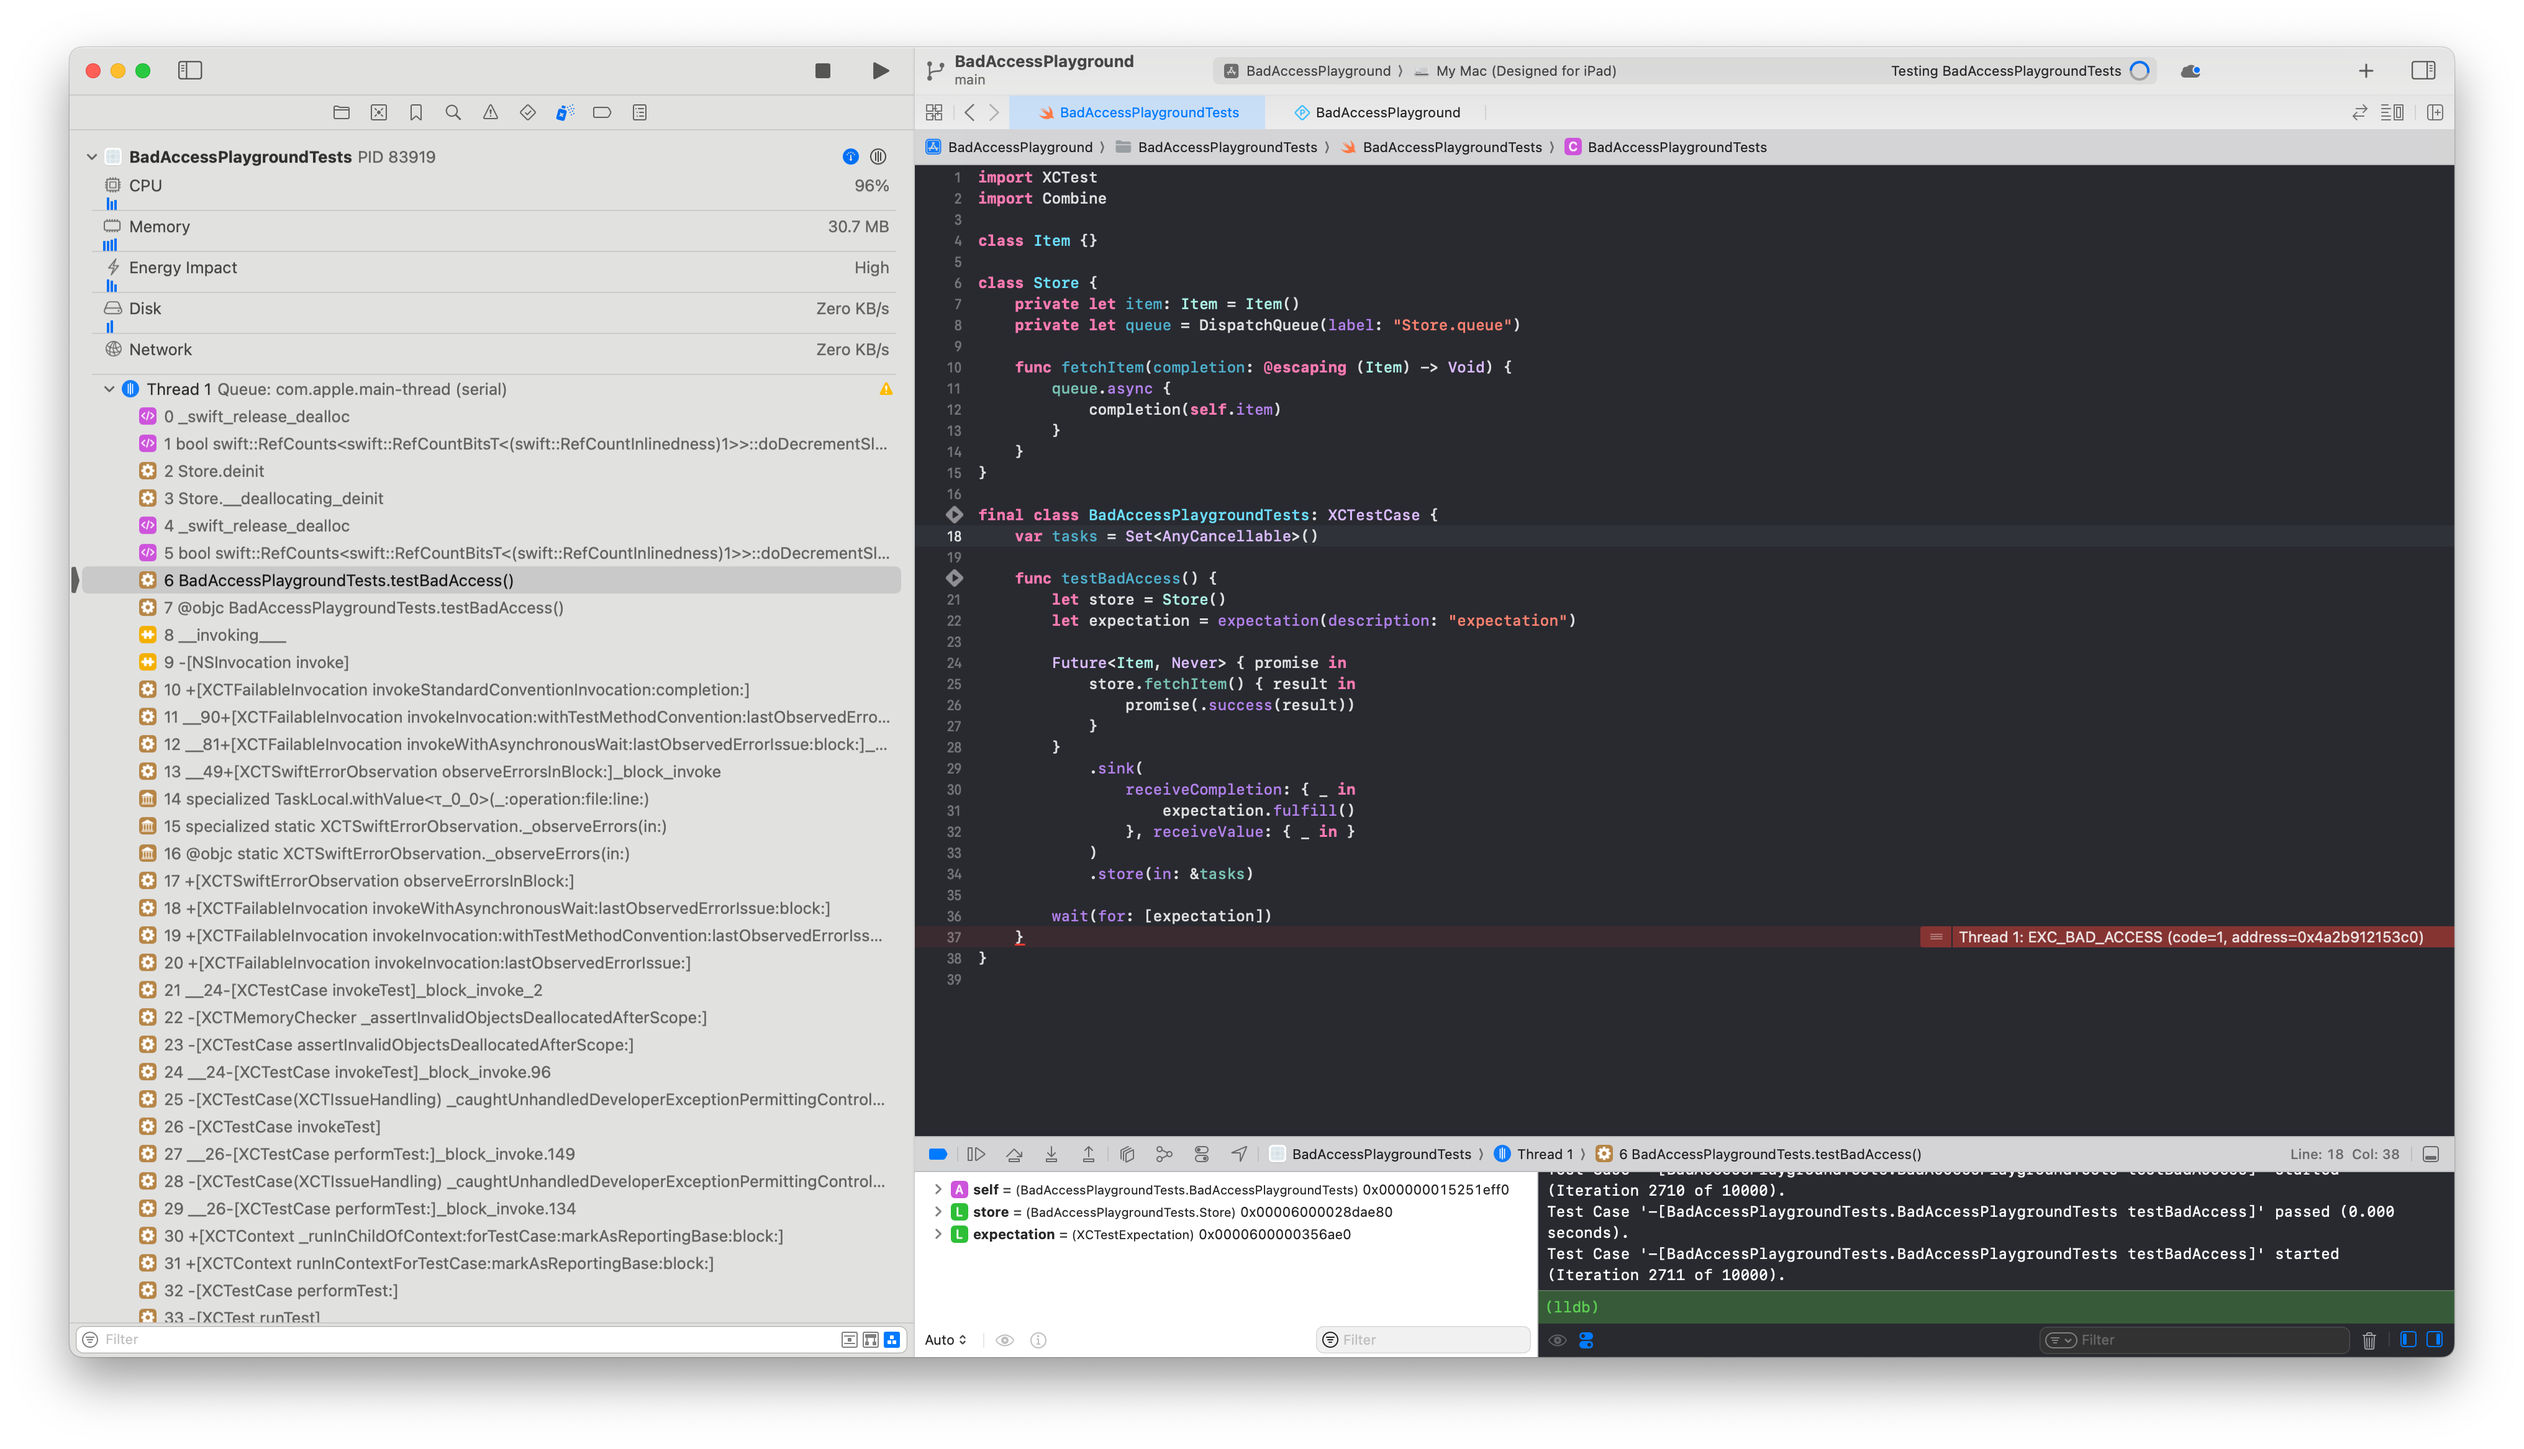
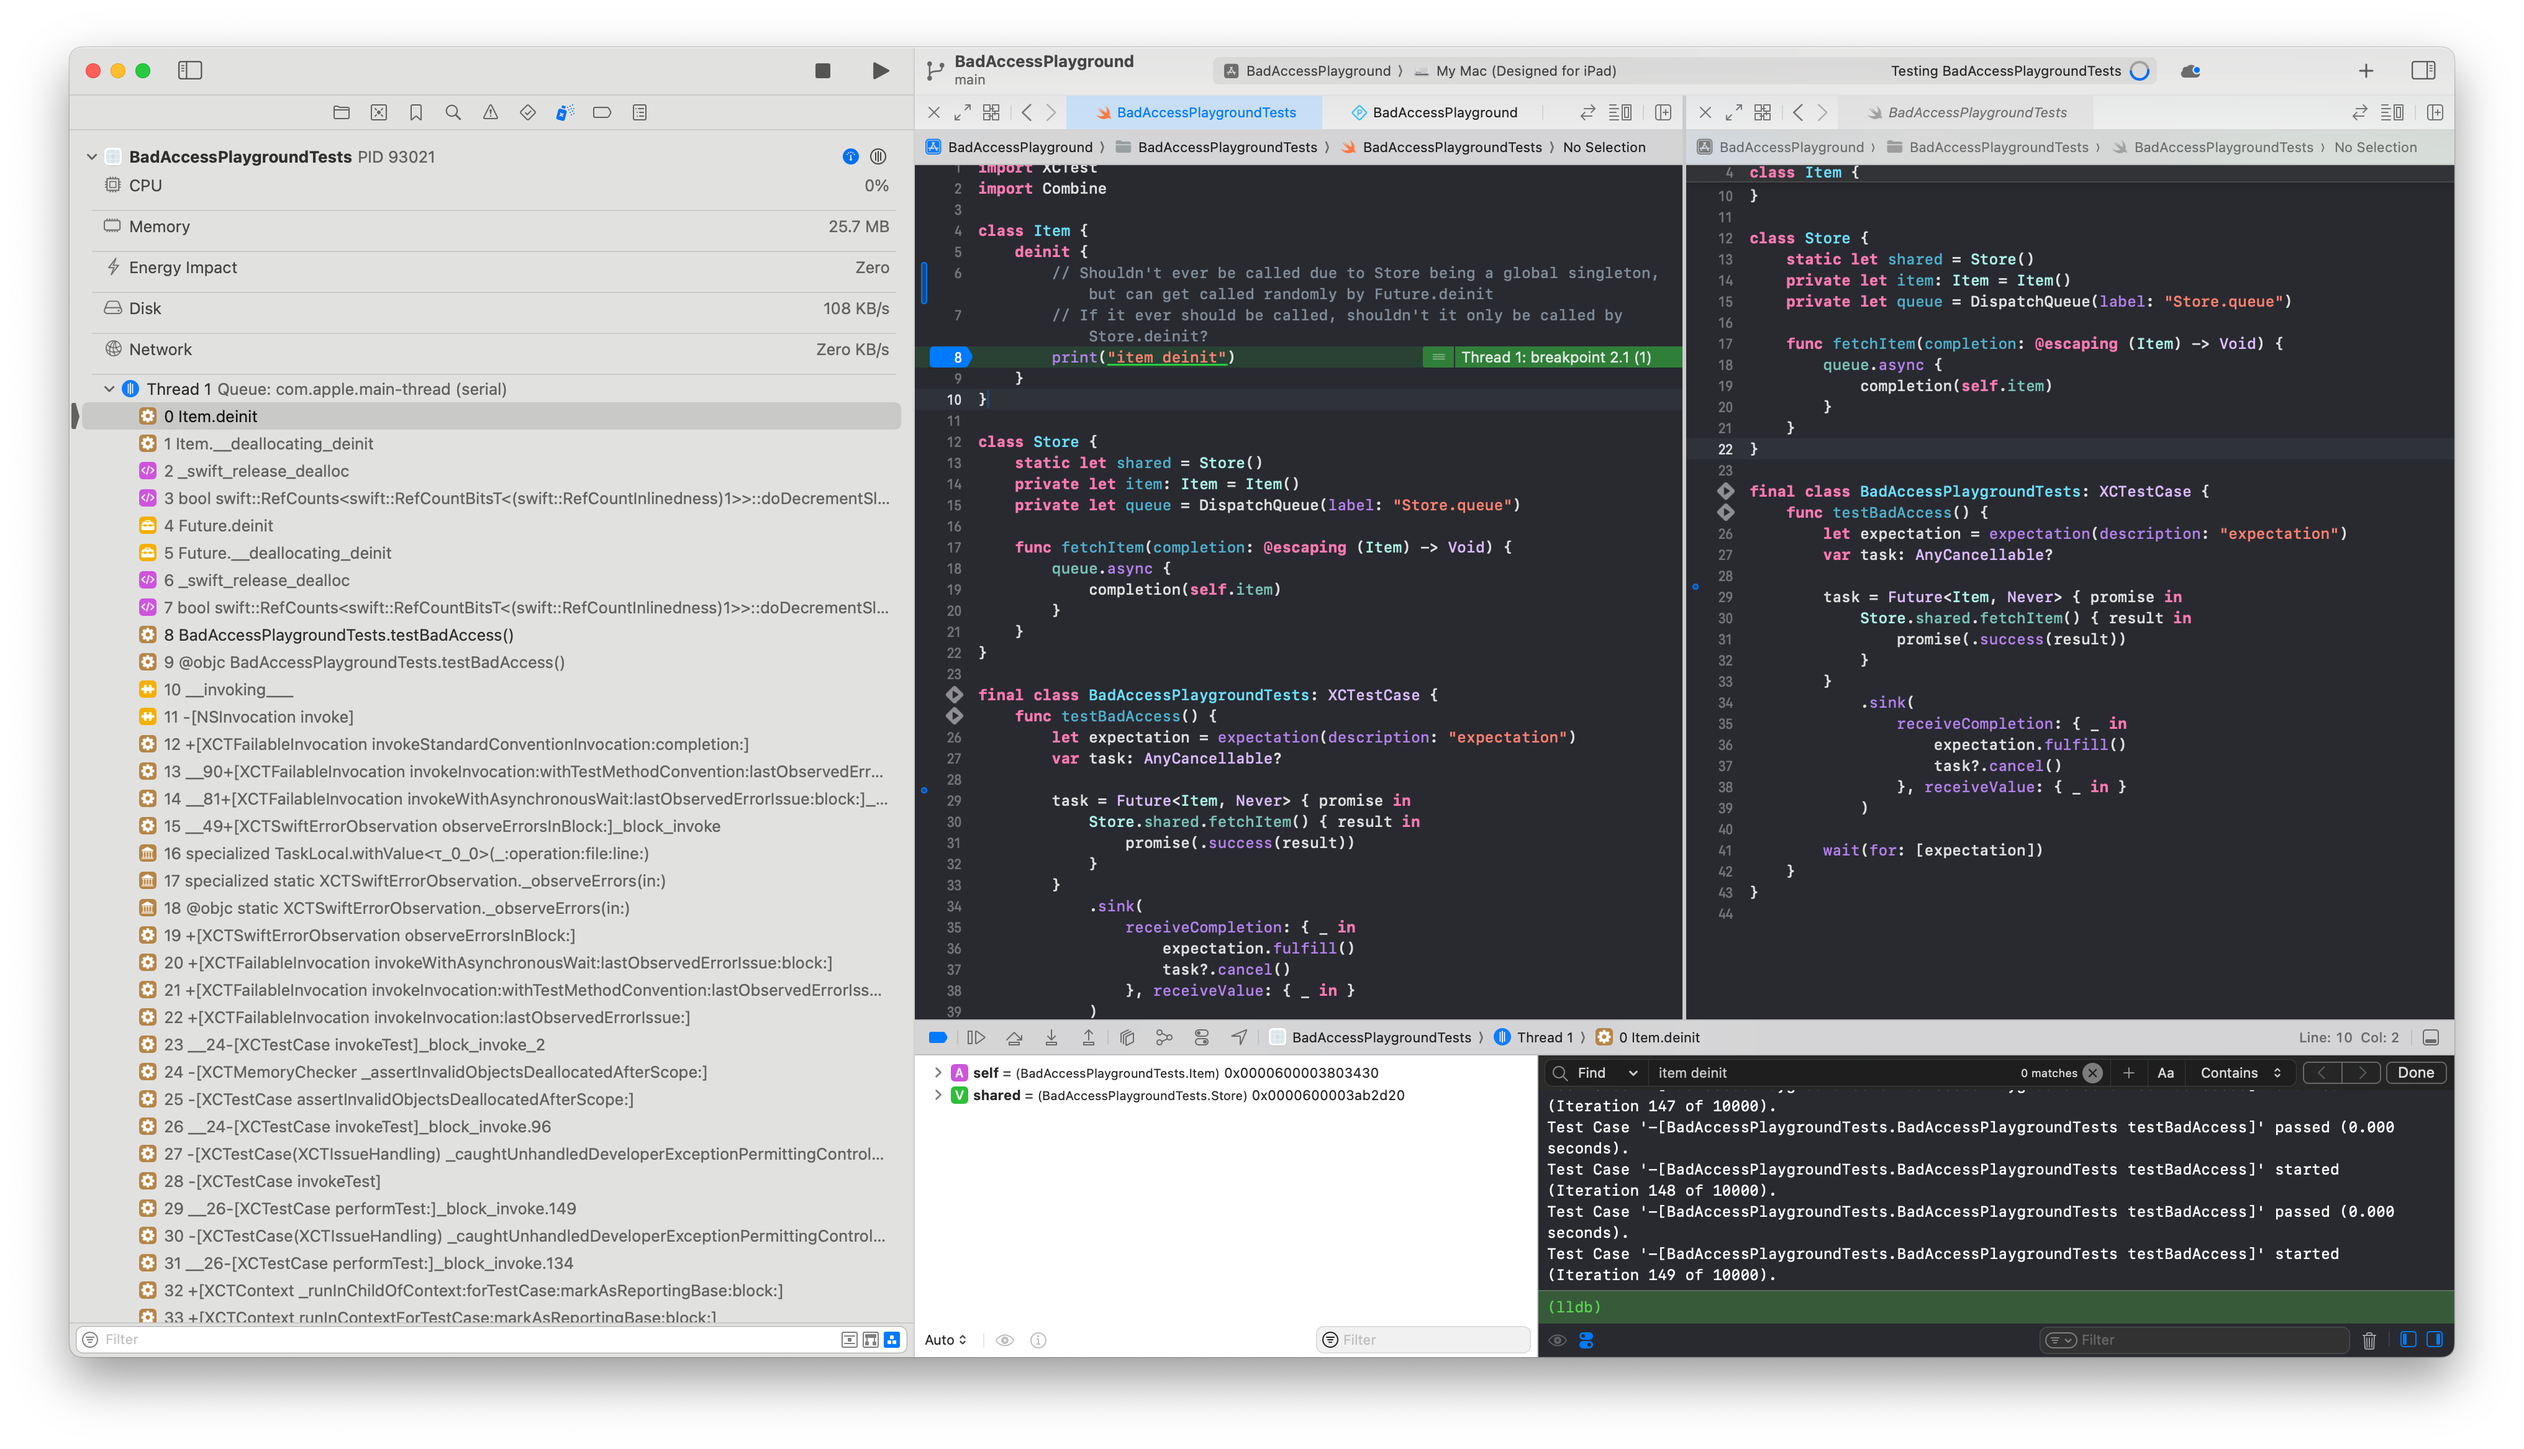
Update README

diff --git a/README.md b/README.md
@@ -10,4 +10,5 @@ I'm trying to understand why this unit test (often) produces EXC_BAD_ACCESS erro
 
 ## Screenshots
 
-![Screenshot of Xcode with an EXC_BAD_ACCESS](/screenshots/1.png)
+![Screenshot of Xcode with a breakpoint unexpectedly hitting Item's deinit](/screenshots/1.png)
+![Screenshot of Xcode with an EXC_BAD_ACCESS](/screenshots/2.png)
